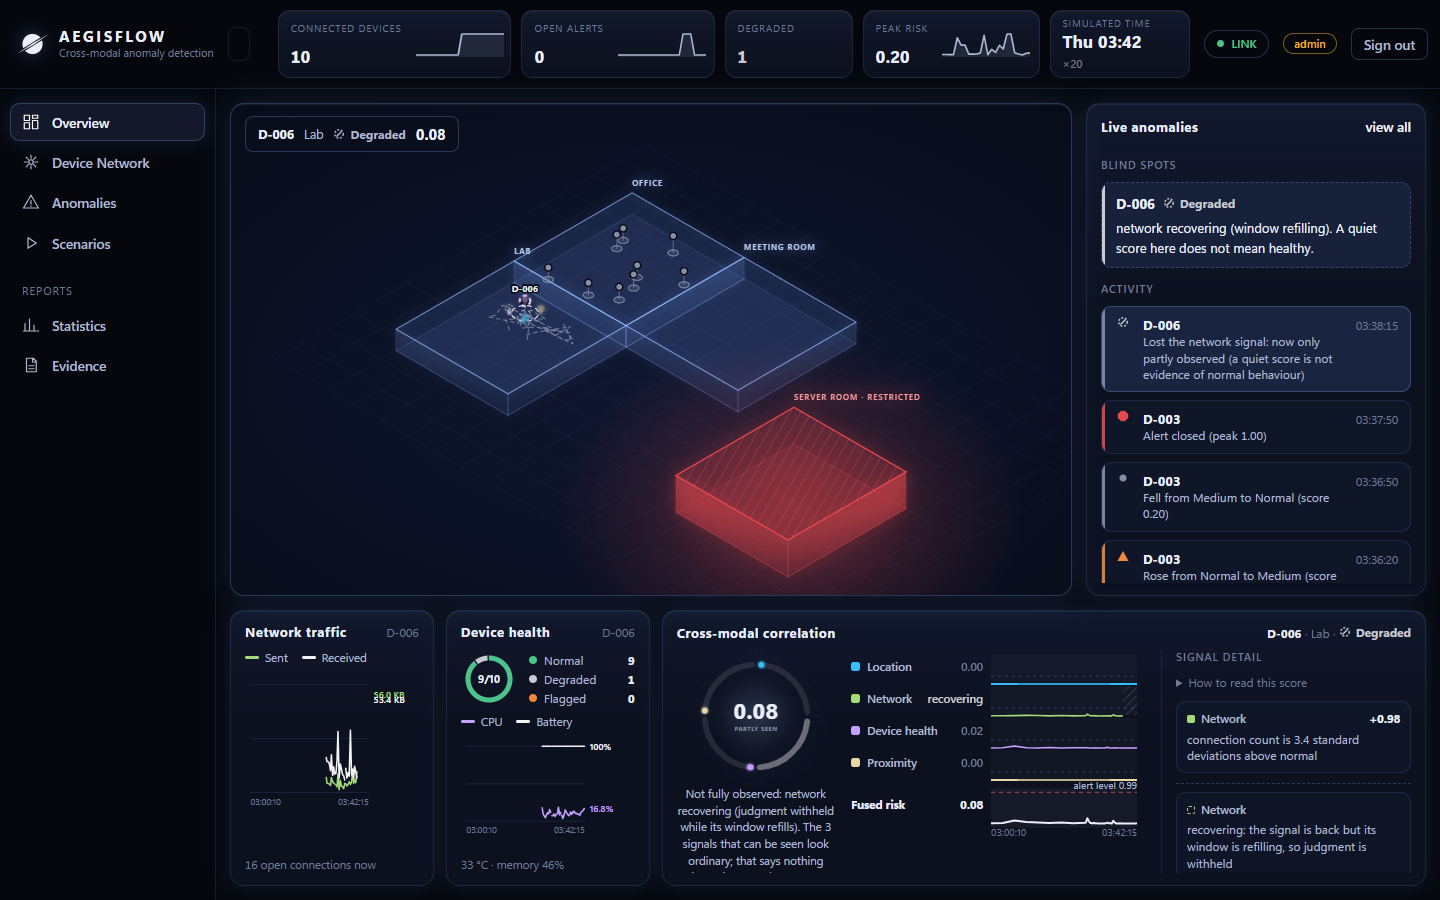
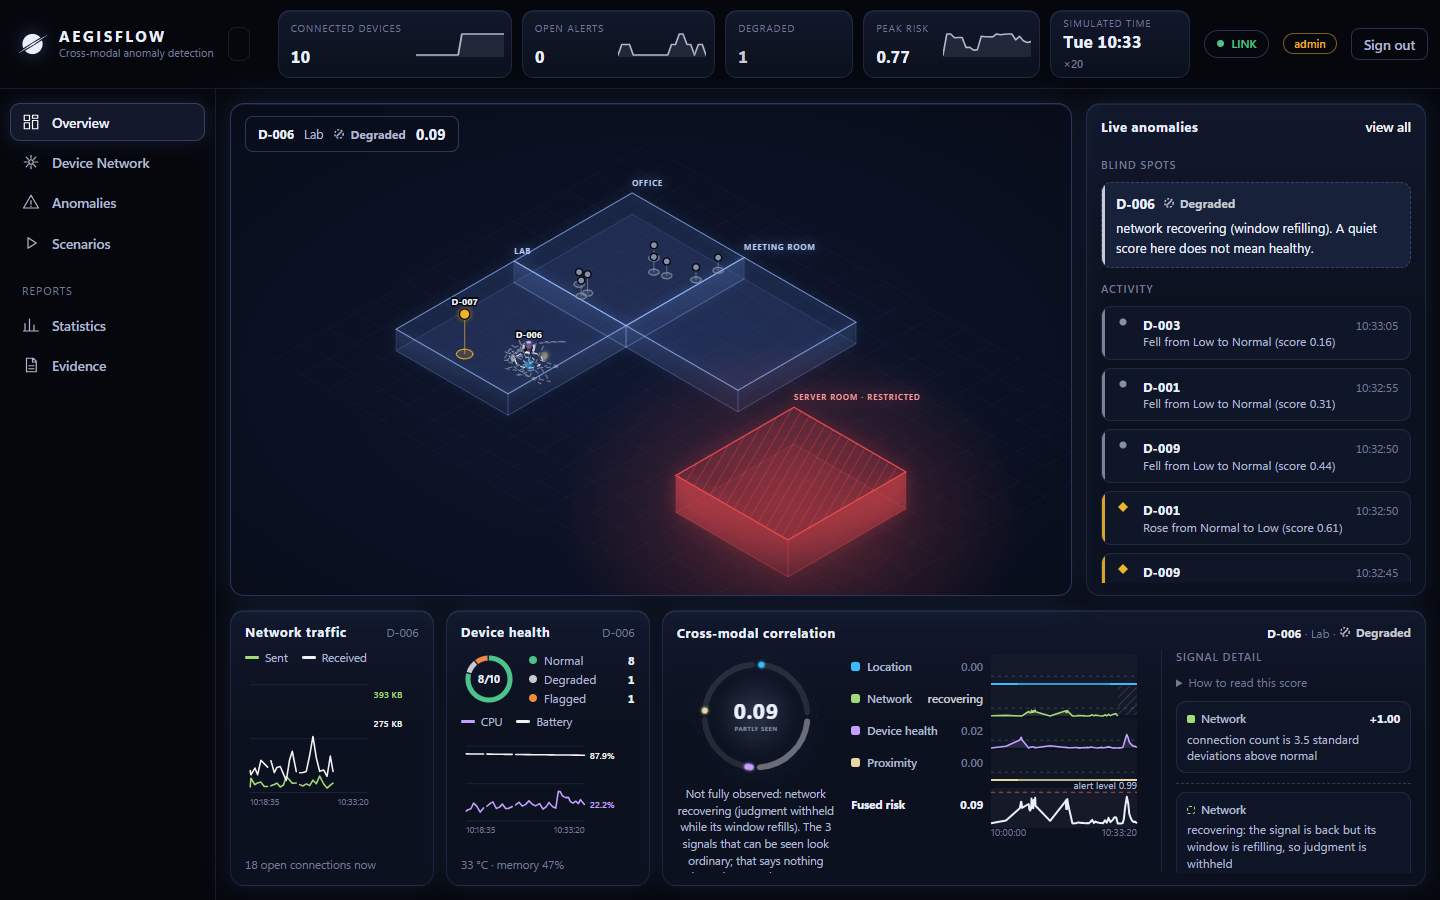
Telemetry charts start their time axis at their first data point instead of squeezing against the right edge; e2e waits for the fleet status instead of a fixed delay; screenshots regenerated

diff --git a/frontend/src/__tests__/components.test.tsx b/frontend/src/__tests__/components.test.tsx
@@ -5,7 +5,7 @@ import { HBars, IntervalPlot, LineChart } from '../components/Charts'
 import { CommandPalette, buildItems, filterItems } from '../components/CommandPalette'
 import { HoloFloor } from '../components/HoloFloor'
 import { CorrelationPanel, AnomalyFeed, correlationSentence, focusDevice } from '../components/Panels'
-import { linePath, spans } from '../components/MiniCharts'
+import { MultiLine, linePath, spans } from '../components/MiniCharts'
 import { StateBadge } from '../components/Glyph'
 import { lostSignals, lostText } from '../format'
 import { SideNav } from '../components/SideNav'
@@ -428,5 +428,16 @@ describe('reading the score (UX consistency)', () => {
     expect(tech.textContent).toMatch(/Full technical explanation/)
     expect(tech.querySelector('pre')?.textContent).toMatch(/HIGH behavioural anomaly on D-001/)
     expect(container.textContent).toMatch(/closes after 60 s below the clear level/)
+  })
+})
+
+describe('MultiLine time axis', () => {
+  afterEach(cleanup)
+  it('starts at the first point that has data, so a series known only recently fills the plot', () => {
+    const T = Date.parse('2026-10-06T04:00:00+00:00')
+    const times = [0, 1, 2, 3, 4].map((m) => T + m * 60_000)
+    const { container } = render(<MultiLine times={times} ariaLabel="x" series={[{ key: 'a', label: 'A', color: 'red', values: [NaN, NaN, 10, 20, 30] }]} />)
+    const d = container.querySelector('path')!.getAttribute('d')!
+    expect(d.startsWith('M6.0 ')).toBe(true)
   })
 })

diff --git a/frontend/src/components/MiniCharts.tsx b/frontend/src/components/MiniCharts.tsx
@@ -35,9 +35,14 @@ export function spans(flags?: boolean[]): [number, number][] {
 export interface Series { key: string; label: string; color: string; values: number[] }
 
 /** Several series on ONE shared axis (never dual-axis). Legend above, values at the line ends, crosshair tooltip. */
-export function MultiLine({ times, series, height = 120, ariaLabel, unit = '', min = 0, max }: {
+export function MultiLine({ times: allTimes, series: allSeries, height = 120, ariaLabel, unit = '', min = 0, max }: {
   times: number[]; series: Series[]; height?: number; ariaLabel: string; unit?: string; min?: number; max?: number
 }) {
+  // Stored history carries scores but not raw telemetry, so a telemetry series only has points since the page opened.
+  // Start the time axis where the data starts; otherwise the line is squeezed against the right edge of a 30-minute axis.
+  const from = Math.max(0, allTimes.findIndex((_, i) => allSeries.some((s) => Number.isFinite(s.values[i]))))
+  const times = from > 0 ? allTimes.slice(from) : allTimes
+  const series = from > 0 ? allSeries.map((s) => ({ ...s, values: s.values.slice(from) })) : allSeries
   const ref = useRef<HTMLDivElement>(null)
   const W = useWidth(ref, 360, 200, 900)
   const [hover, setHover] = useState<number | null>(null)

diff --git a/scripts/e2e_dashboard.py b/scripts/e2e_dashboard.py
@@ -35,9 +35,13 @@ with sync_playwright() as p:
     expect(page.get_by_role("alert")).to_contain_text("not accepted"); shot(page, "02_login_error")
 
     print("2. admin login; make sure no fleet is left over from an earlier session")
-    page.get_by_label("Access token").fill(ADMIN); page.get_by_role("button", name="Sign in").click()
+    page.get_by_label("Access token").fill(ADMIN)
+    # The first status response tells us whether a fleet is still running; wait for it rather than for a fixed time
+    # (a busy API with a live fleet can take several seconds, and guessing wrong starts a fleet that is already running).
+    with page.expect_response(lambda r: r.url.endswith("/api/system/status"), timeout=30000):
+        page.get_by_role("button", name="Sign in").click()
     expect(page.locator(".pill").last).to_contain_text("LINK", timeout=15000)   # WebSocket connected
-    time.sleep(4)   # the first status poll tells us whether a fleet is still running
+    time.sleep(1)
     nav(page, "Scenarios")
     stop = page.get_by_role("button", name="Stop", exact=True)
     if stop.count():
